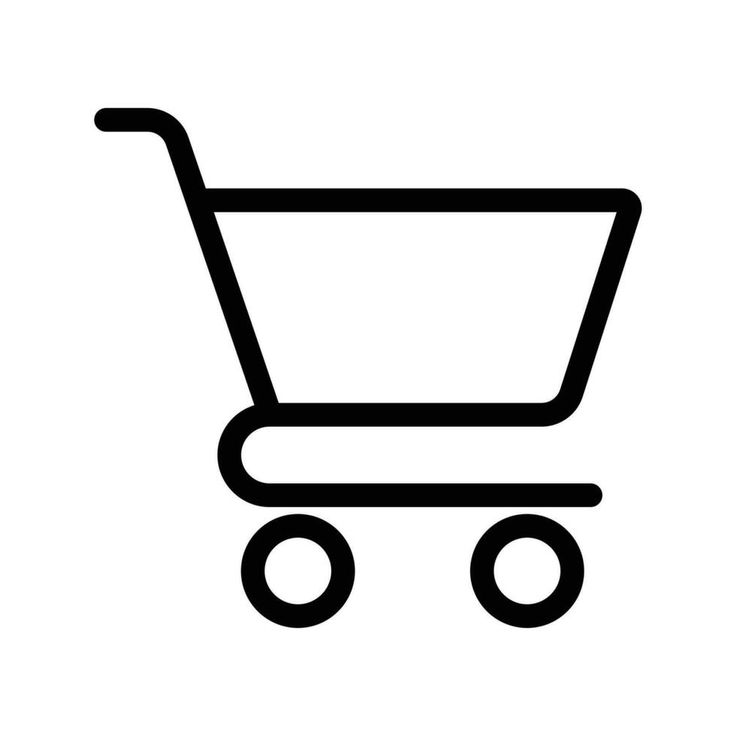
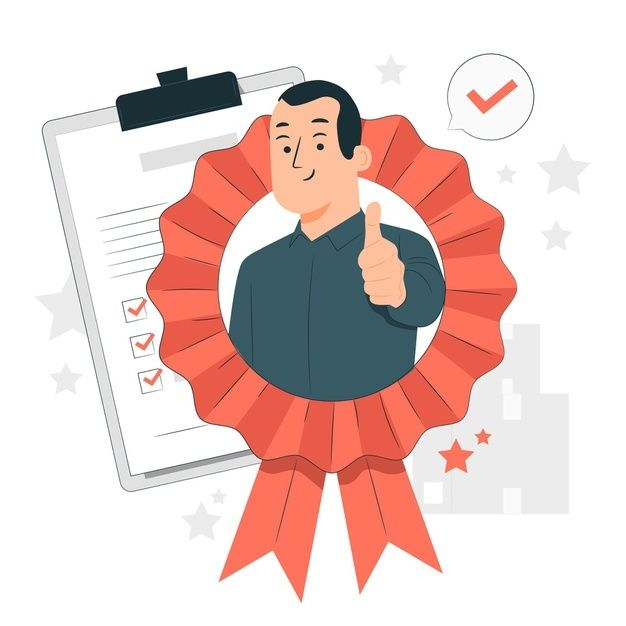
ubah tampilan

diff --git a/index.html b/index.html
@@ -65,7 +65,7 @@
 
       <div class="menu-grid">
         <div class="card">
-          <img src="img/(1).jpg" alt="Alfi Syahrin Ikhlasifirly" />
+          <img src="img/(3).jpg" alt="Alfi Syahrin Ikhlasifirly" />
           <div class="content">
             <h3>Responsive Customer Service</h3>
             <p>
@@ -77,7 +77,7 @@
         </div>
 
         <div class="card">
-          <img src="img/(2).jpg" alt="anjali" />
+          <img src="img/(1).jpg" alt="anjali" />
           <div class="content">
             <h3>No Minimum Order</h3>
             <p>
@@ -89,7 +89,7 @@
         </div>
 
         <div class="card">
-          <img src="img/(3).jpg" alt="Dina" />
+          <img src="img/(4).jpg" alt="Dina" />
           <div class="content">
             <h3>Fast Production & Delivery</h3>
             <p>
@@ -100,7 +100,7 @@
         </div>
 
         <div class="card">
-          <img src="img/4.jpg" alt="Dina" />
+          <img src="img/(2).jpg" alt="Dina" />
           <div class="content">
             <h3>Print Quality Guarantee</h3>
             <p>

diff --git a/style.css b/style.css
@@ -251,6 +251,7 @@ body {
   width: 100%;
   border-radius: 15px;
   object-fit: cover;
+  box-shadow: 0 5px 10px rgba(0, 0, 0, 0.1);
 }
 
 @media (max-width: 600px) {
